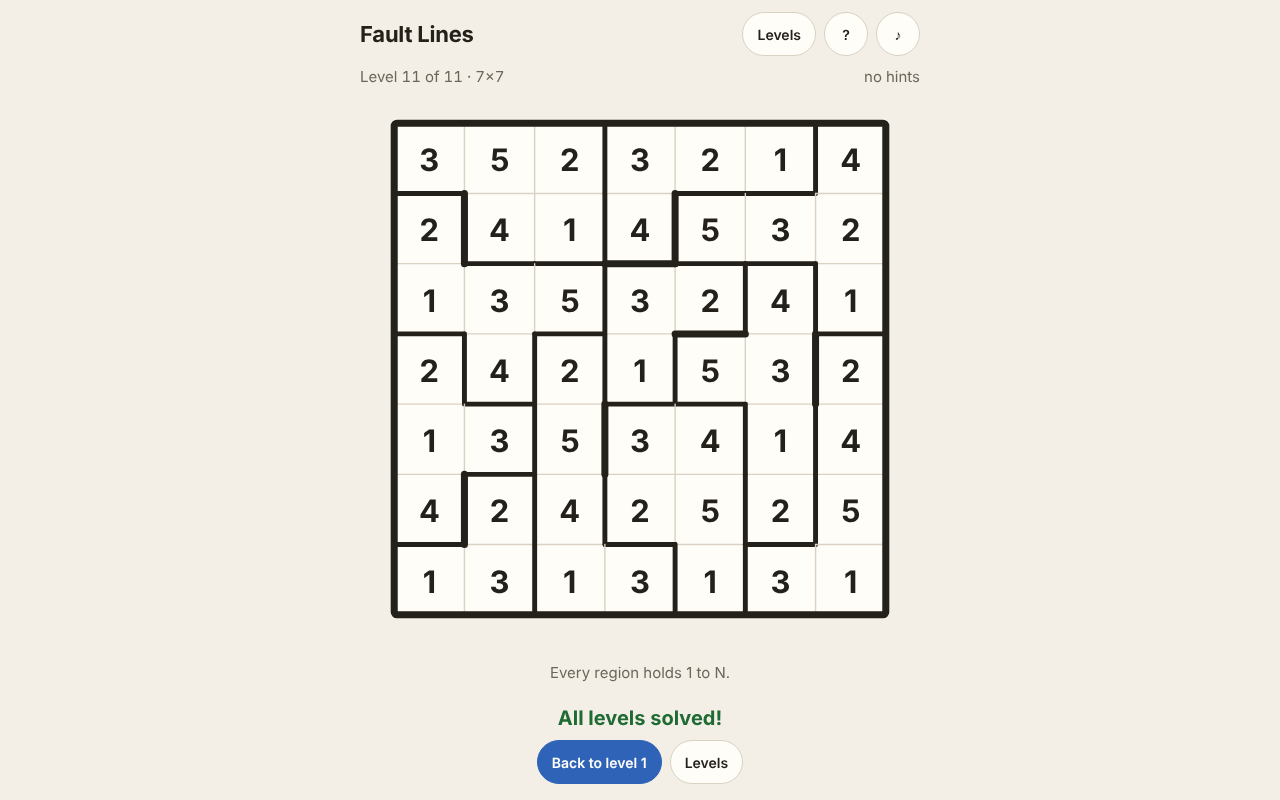
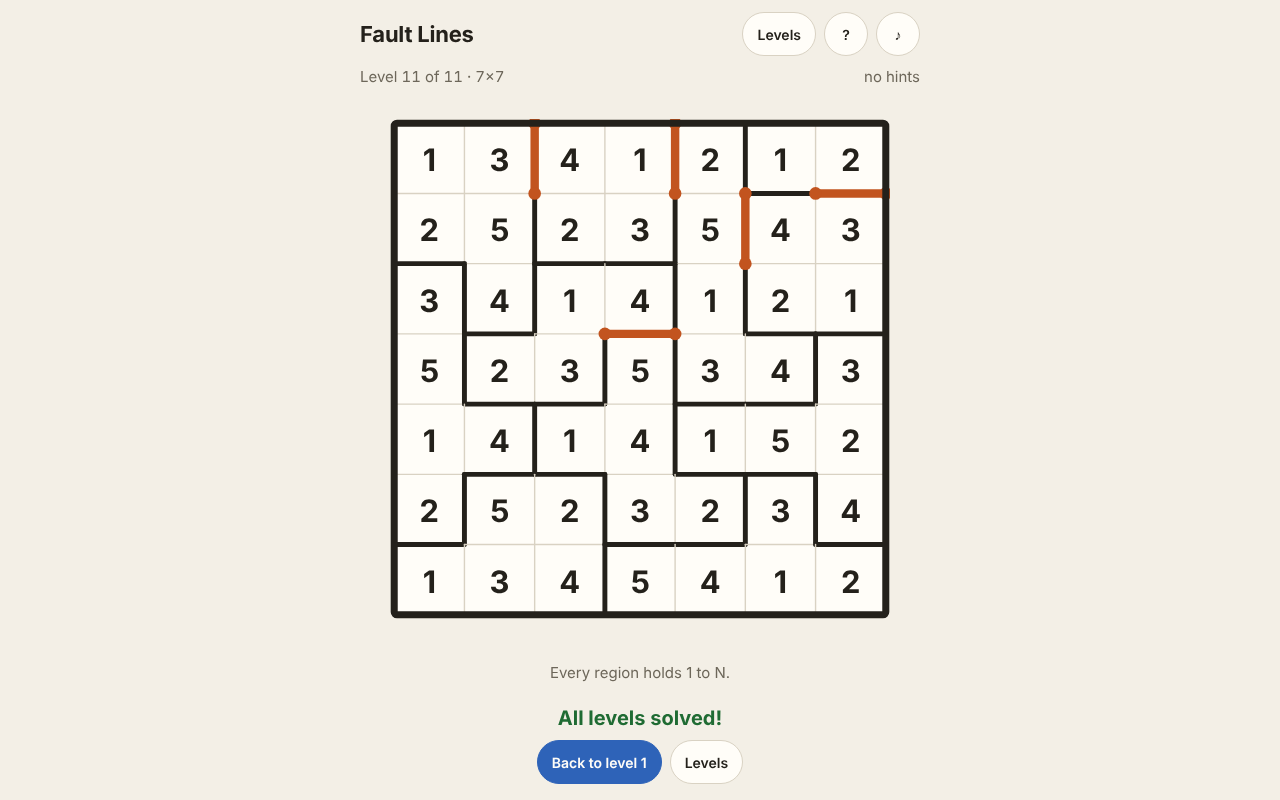
fault-lines: reviewer fixes — fixed walls enforced (a region around a wall is red), every level has a forced first region, true tips, one hint outline per region with clearer copy, orange fixed walls, all-grouped message; QA 45/45
Claude-Session: https://claude.ai/code/session_014Xx1rPcYbGhUYVFdJJ7V6Y

diff --git a/games/fault-lines/index.html b/games/fault-lines/index.html
@@ -8,17 +8,17 @@
   :root {
     --bg: #f3efe6; --panel: #fffdf8; --ink: #24211b; --muted: #6d675a; --line: #d9d2c3;
     --cell: #fffdf8; --reg: #dde6f4; --good: #d3ecd6; --bad: #f5d3cd; --stroke: #ffe39a;
-    --wall: #4a5873; --given: #24211b; --accent: #2e63b8; --goodInk: #1f6b33; --badInk: #a3312a;
+    --wall: #4a5873; --given: #24211b; --fixed: #c2541f; --accent: #2e63b8; --goodInk: #1f6b33; --badInk: #a3312a;
     --font: system-ui, -apple-system, "Segoe UI", sans-serif;
   }
   @media (prefers-color-scheme: dark) {
     :root:not([data-theme="light"]) { --bg: #15161a; --panel: #1f2126; --ink: #ece8de; --muted: #a29d90; --line: #3a3d45;
       --cell: #1f2126; --reg: #283650; --good: #1f4429; --bad: #552624; --stroke: #5b4a17;
-      --wall: #9fb2d6; --given: #ece8de; --accent: #7ea6ec; --goodInk: #7fd493; --badInk: #f09a90; color-scheme: dark; }
+      --wall: #9fb2d6; --given: #ece8de; --fixed: #f08a4b; --accent: #7ea6ec; --goodInk: #7fd493; --badInk: #f09a90; color-scheme: dark; }
   }
   :root[data-theme="dark"] { --bg: #15161a; --panel: #1f2126; --ink: #ece8de; --muted: #a29d90; --line: #3a3d45;
     --cell: #1f2126; --reg: #283650; --good: #1f4429; --bad: #552624; --stroke: #5b4a17;
-    --wall: #9fb2d6; --given: #ece8de; --accent: #7ea6ec; --goodInk: #7fd493; --badInk: #f09a90; color-scheme: dark; }
+    --wall: #9fb2d6; --given: #ece8de; --fixed: #f08a4b; --accent: #7ea6ec; --goodInk: #7fd493; --badInk: #f09a90; color-scheme: dark; }
   * { box-sizing: border-box; }
   html, body { height: 100%; margin: 0; }
   body { background: var(--bg); color: var(--ink); font: 16px/1.4 var(--font); -webkit-tap-highlight-color: transparent;
@@ -89,7 +89,7 @@
   <div class="card"><h2>How to play</h2>
     <p>Every number is already in place; the walls are gone. Group the cells back into regions: a region of <b>N</b> cells holds each number from 1 to N once (so its biggest number is its size, at most 5).</p>
     <p><b>Drag</b> across cells to make a region. Drag from a region to grow it; drag back to take a cell out of the stroke. <b>Tap</b> a free cell to make a one-cell region, tap a cell in a region to free it.</p>
-    <p>Dark lines are fixed walls: the cells on either side are in different regions. A region turns green when it holds 1 to N. Solve the board by making every region green. There is exactly one answer, and it can be found without guessing.</p>
+    <p><b>Orange lines</b> are fixed walls: a region never crosses one. A region turns green when it holds 1 to N. Solve the board by making every region green. There is exactly one answer, and it can be found without guessing.</p>
     <p class="keys">Keyboard: arrows move · Space/Enter pen down/up · Backspace frees a cell · Z undo · R restart · H hint · N next · L levels</p>
     <button class="pill primary" id="closeHelp">Play</button></div>
 </div>
@@ -97,24 +97,24 @@
 // ---------- constants + levels ----------
 // LEVELS-BEGIN
 const LEVELS = [
-  {"w":4,"h":3,"d":"421313424213","walls":[[9,10]],"regions":[[0,1,2,3],[4,5,8,9],[6,7,10,11]]},
-  {"w":4,"h":4,"d":"1343451223451521","walls":[[5,6],[6,10],[6,7]],"regions":[[2,3,7,11,15],[6],[9,10,12,13,14],[0,1,4,5,8]]},
-  {"w":4,"h":4,"d":"1254543112524313","walls":[[10,14],[2,6],[9,10]],"regions":[[2,3,7,11,15],[0,1,5,6,10],[4,8,9,12,13],[14]]},
-  {"w":5,"h":5,"d":"5142123534514124235435123","walls":[[15,16],[22,23]],"regions":[[5,10,11,15,20],[0,1,2,3,6],[4,7,8,9,14],[12,16,17,21,22],[13,18,19,23,24]]},
-  {"w":5,"h":5,"d":"1214253531212453451221343","walls":[[12,13],[2,7],[21,22]],"regions":[[13,14,18,19,24],[3,4,7,8,9],[11,12,17,22,23],[0,5,10,15,16],[1,2,6],[20,21]]},
-  {"w":6,"h":6,"d":"141413252324314153425321134145252323","walls":[[11,17],[30,31],[6,7]],"regions":[[14,15,16,17,22],[4,5,10,11],[13,18,19,20,21],[0,1,6,12],[2,3,7,8,9],[23,28,29,34,35],[24,25,30],[26,27,31,32,33]]},
-  {"w":6,"h":6,"d":"252121134343525151413234354152423241","walls":[[10,16],[26,27],[33,34]],"regions":[[13,14,15,20,26],[21,22,28,34,35],[11,16,17,23,29],[1,2,3,7,8],[0,6,12,18,24],[4,5,9,10],[19,25,30,31,32],[27,33]]},
-  {"w":6,"h":6,"d":"212531343125152543234121512343234121","walls":[[13,19],[15,21],[2,8],[3,9]],"regions":[[18,19,25],[24,30,31,32,33],[0,6,7,12,13],[1,2],[3,4,5,10,16],[8,9,14,15,20],[11,17,22,23,28],[21,26,27],[29,34,35]]},
+  {"w":4,"h":3,"d":"212134341212","walls":[[10,11]],"regions":[[3,6,7,11],[0,4,5,8],[1,2],[9,10]]},
+  {"w":4,"h":4,"d":"5412135352414132","walls":[[10,11],[12,13]],"regions":[[4,5,8,9,12],[0,1,2,3,7],[6,10,13,14,15],[11]]},
+  {"w":4,"h":4,"d":"1234545112343512","walls":[[14,15],[8,12]],"regions":[[5,9,12,13,14],[0,1,2,3,4],[6,7,10,11,15],[8]]},
+  {"w":5,"h":5,"d":"3212114343251211435352142","walls":[[16,17],[4,9]],"regions":[[17,20,21,22,23],[14,19,24],[0,5,10,11,16],[15],[3,4],[8,9,12,13,18],[1,2,6,7]]},
+  {"w":5,"h":5,"d":"2521214343351212434315121","walls":[[15,16],[15,20]],"regions":[[20],[0,5],[6,10,11,12,15],[1,2,3,7,8],[4,9,14],[16,17,21,22,23],[13,18,19,24]]},
+  {"w":6,"h":6,"d":"342121215343342121213535352124214531","walls":[[22,23],[28,29]],"regions":[[11,16,17,23,29],[22,27,28],[13,18,19,20,25],[6,7,12],[26,32,33,34,35],[24,30,31],[4,5],[0,1,2,3,8],[9,10,14,15,21]]},
+  {"w":6,"h":6,"d":"231242145313321424153515241423152314","walls":[[0,6],[1,2],[32,33],[6,12]],"regions":[[0,1,7,8,14],[6],[12,13,18,19,25],[24,30],[20,26,27,31,32],[4,5,10,11],[16,17,22,23,29],[2,3,9,15,21],[28,33,34,35]]},
+  {"w":6,"h":6,"d":"243151312423453151212434345152213241","walls":[[10,11],[13,19],[24,25],[7,13]],"regions":[[5],[11,16,17,23,29],[8,13,14,15,21],[2,3,4,9,10],[0,1,6,7],[12,18,19,24],[20,25,26,27,32],[22,28,33,34,35],[30,31]]},
   {"w":7,"h":7,"d":"2312154454342132121351434542352121314353423214213","walls":[[0,7],[1,2],[19,26],[36,37],[41,48]],"regions":[[0,1,8,9,16],[7,14,15,21],[31,32,37,38,45],[22,28,29,30,35],[36,42,43,44],[33,39,40,41],[46,47,48],[17,18,23,24,25],[13,20,26,27,34],[4,5,6,12,19],[2,3,10,11]]},
-  {"w":7,"h":7,"d":"3232121141534525242131313542245413551325213451434","walls":[[13,20],[22,23],[39,40],[42,43],[6,13],[7,14]],"regions":[[21,28,29,35,42],[8,9,14,15,22],[0,1,7],[36,37,38,39,43],[16,23,24,30,31],[40,44,45,46,47],[2,3,4,10,17],[5,11,12,13,19],[6],[18,25,26,32,33],[20,27,34,41,48]]},
-  {"w":7,"h":7,"d":"3523214241453213532412421532135341442425251313131","walls":[[10,11],[10,17],[18,25],[26,27],[30,31],[35,36],[7,8]],"regions":[[3,4,5,10],[27,34,41,47,48],[31,32,38,39,46],[19,25,26,33,40],[6,11,12,13,20],[17,18,24],[7,14,15,16,22],[0,1,2,8,9],[23,30,37,44,45],[21,28,29,35],[36,42,43]]}
+  {"w":7,"h":7,"d":"4512124123535135121231434341251212334353512124243","walls":[[1,8],[13,20],[29,36],[36,37],[44,45]],"regions":[[0,1,2,3,9],[31,32,38,39,45],[4,5,6,10,11],[12,18,19,20,26],[13],[15,16,17,24,25],[21,22,23,28,29],[7,8,14],[27,33,34],[30,37,44],[35,36,42,43],[40,41,46,47,48]]},
+  {"w":7,"h":7,"d":"1341212252354334141215235343141415225232341345412","walls":[[1,2],[11,12],[17,24],[3,4],[6,13]],"regions":[[5,6],[12,13,19,20],[27,32,33,34,41],[4,11,18,25,26],[24,30,31,38,39],[36,37,42,43,44],[40,45,46,47,48],[14,21,28,29,35],[0,1,7,8,15],[2,3,9,10],[16,17,22,23]]}
 ];
 // LEVELS-END
 const TIPS = [
   "<b>Drag</b> across cells to make a region. A region of 3 cells holds 1, 2 and 3.",
-  "A region's biggest number is its size. A <b>5</b> needs a 4, 3, 2 and 1 next to it.",
-  "<b>Dark lines</b> are fixed walls: the cells on either side are in different regions.",
-  "A 1 with no 2 beside it stands alone: <b>tap</b> it.",
+  "A region's biggest number is its size: a <b>4</b> needs a 1, 2 and 3 joined to it.",
+  "<b>Orange lines</b> are fixed walls: a region never crosses one.",
+  "Stuck? Find a number with only <b>one way</b> to collect what it needs, and start there.",
 ];
 const KEY = "faultLines.v1";
 
@@ -135,9 +135,10 @@ function normalize(L, lab) {
   return out;
 }
 function regionsOf(lab) { const m = new Map(); lab.forEach((v, i) => { if (v >= 0) { if (!m.has(v)) m.set(v, []); m.get(v).push(i); } }); return [...m.values()]; }
+function crossesWall(L, cells) { const c = new Set(cells); return L.walls.some(([a, b]) => c.has(a) && c.has(b)); }
 function status(L, cells) {
   const ds = cells.map((i) => +L.d[i]), set = new Set(ds);
-  if (cells.length > 5 || set.size < ds.length) return "bad";
+  if (cells.length > 5 || set.size < ds.length || crossesWall(L, cells)) return "bad";
   return Math.max(...ds) === cells.length ? "good" : "open";
 }
 function newGame(level, lab) {
@@ -180,7 +181,7 @@ function findHint(g) {
   for (const r of ev.regs) {
     const ks = new Set(r.cells.map((i) => ansOf[i]));
     const exact = ks.size === 1 && answer[[...ks][0]].length === r.cells.length;
-    if (ks.size > 1 || (r.st === "good" && !exact)) return { kind: "wrong", cells: r.cells };
+    if (ks.size > 1 || (r.st === "good" && !exact)) return { kind: "wrong", why: ks.size > 1 ? "mix" : "part", cells: r.cells };
   }
   for (const c of answer) {
     const id = g.lab[c[0]];
@@ -257,13 +258,30 @@ function render() {
   for (const [a, b] of L.walls) {
     const i = Math.min(a, b), q = Math.max(a, b), [x, y] = cellXY(L, i), horiz = q === i + 1;
     const line = horiz ? { x1: x + S, y1: y, x2: x + S, y2: y + S } : { x1: x, y1: y + S, x2: x + S, y2: y + S };
-    kids.push(el("line", { ...line, stroke: "var(--given)", "stroke-width": 10, "stroke-linecap": "round" }));
+    kids.push(el("line", { ...line, stroke: "var(--fixed)", "stroke-width": 12, "stroke-linecap": "round" }));
+    kids.push(el("circle", { cx: line.x1, cy: line.y1, r: 9, fill: "var(--fixed)" }), el("circle", { cx: line.x2, cy: line.y2, r: 9, fill: "var(--fixed)" }));
   }
   kids.push(el("rect", { x: PAD, y: PAD, width: L.w * S, height: L.h * S, fill: "none", stroke: "var(--given)", "stroke-width": 10, rx: 4 }));
   // hint outline
-  if (g.hint) for (const c of g.hint.cells) {
-    const [x, y] = cellXY(L, c);
-    kids.push(el("rect", { x: x + 9, y: y + 9, width: S - 18, height: S - 18, rx: 12, fill: "none", stroke: g.hint.kind === "wrong" ? "var(--badInk)" : "var(--accent)", "stroke-width": 6, "stroke-dasharray": "14 9" }));
+  if (g.hint) {
+    const hs = new Set(g.hint.cells), col = g.hint.kind === "wrong" ? "var(--badInk)" : "var(--accent)", m = 12;
+    for (const c of g.hint.cells) {
+      const [x, y] = cellXY(L, c), cx = c % L.w, cy = (c / L.w) | 0;
+      kids.push(el("rect", { x, y, width: S, height: S, fill: col, opacity: 0.12 }));
+      const side = (q, ok) => !ok || !hs.has(q);
+      const segs = [];
+      if (side(c - L.w, cy > 0)) segs.push([x + m, y + m, x + S - m, y + m, "t"]);
+      if (side(c + L.w, cy < L.h - 1)) segs.push([x + m, y + S - m, x + S - m, y + S - m, "b"]);
+      if (side(c - 1, cx > 0)) segs.push([x + m, y + m, x + m, y + S - m, "l"]);
+      if (side(c + 1, cx < L.w - 1)) segs.push([x + S - m, y + m, x + S - m, y + S - m, "r"]);
+      for (const [x1, y1, x2, y2, k] of segs) {
+        // stretch the line into the neighbouring hinted cell so the outline is continuous
+        let a = [x1, y1], b = [x2, y2];
+        if (k === "t" || k === "b") { if (cx > 0 && hs.has(c - 1) && !hs.has(c - 1 + (k === "t" ? -L.w : L.w))) a = [x, y1]; if (cx < L.w - 1 && hs.has(c + 1) && !hs.has(c + 1 + (k === "t" ? -L.w : L.w))) b = [x + S, y2]; }
+        else { if (cy > 0 && hs.has(c - L.w) && !hs.has(c - L.w + (k === "l" ? -1 : 1))) a = [x1, y]; if (cy < L.h - 1 && hs.has(c + L.w) && !hs.has(c + L.w + (k === "l" ? -1 : 1))) b = [x2, y + S]; }
+        kids.push(el("line", { x1: a[0], y1: a[1], x2: b[0], y2: b[1], stroke: col, "stroke-width": 6, "stroke-dasharray": "14 9", "stroke-linecap": "round" }));
+      }
+    }
   }
   // stroke path
   if (stroke && stroke.cells.length > 1) {
@@ -292,11 +310,16 @@ function tipText(g, ev) {
   if (stroke && stroke.cells.length) {
     const cells = stroke.base != null ? [...new Set([...regionsOf(g.lab).find((r) => r.includes(stroke.first)) || [], ...stroke.cells])] : stroke.cells;
     const ds = cells.map((i) => +g.L.d[i]).sort((a, b) => a - b), st = status(g.L, cells);
-    const word = st === "good" ? `<span class="ok">✓ holds 1 to ${cells.length}</span>` : st === "bad" ? `<span class="no">${cells.length > 5 ? "more than 5 cells" : "a number repeats"}</span>` : `needs ${Math.max(...ds)} cells`;
+    const word = st === "good" ? `<span class="ok">✓ holds 1 to ${cells.length}</span>` : st === "bad" ? `<span class="no">${cells.length > 5 ? "more than 5 cells" : crossesWall(g.L, cells) ? "a fixed wall runs through it" : "a number repeats"}</span>` : `needs ${Math.max(...ds)} cells`;
     return `${cells.length} cell${cells.length > 1 ? "s" : ""}: ${ds.join(" ")} · ${word}`;
   }
-  if (g.hint) return g.hint.kind === "wrong" ? "The <b>dashed</b> region can't be right: its cells belong to different regions." : `The <b>dashed</b> ${g.hint.cells.length} cell${g.hint.cells.length > 1 ? "s" : ""} make one region.`;
-  if (ev.bad) return `<span class="no">Red</span> regions repeat a number or have more than 5 cells.`;
+  if (g.hint) {
+    if (g.hint.kind === "next") return `The <b>dashed</b> ${g.hint.cells.length} cell${g.hint.cells.length > 1 ? "s" : ""} make one region.`;
+    return g.hint.why === "part" ? (g.hint.cells.length === 1 ? "The <b>dashed</b> cell belongs in a bigger region." : "The <b>dashed</b> region is part of a bigger region.")
+      : "The <b>dashed</b> region can't be right: it mixes cells from different regions.";
+  }
+  if (ev.bad) return `<span class="no">Red</span> regions repeat a number, cross a fixed wall or have more than 5 cells.`;
+  if (!ev.free) return "Every cell is grouped, but some regions are wrong. <b>Hint</b> shows one.";
   if (g.level < TIPS.length && !ev.regs.length) return TIPS[g.level];
   return "Group every cell into a region that holds 1 to N.";
 }

diff --git a/games/fault-lines/BRIEF.md b/games/fault-lines/BRIEF.md
@@ -30,7 +30,7 @@ in one night. Sum Trail needs heavy arithmetic per move; Hitori Rooms is close t
 1. Core: every cell numbered, drag across cells to group them into a region, live feedback (a region that holds
    exactly 1..N turns green, a region with a repeated number or more than 5 cells turns red), win when every cell
    is in a green region.
-2. 10 generated levels, 4×4 to 7×7, each with exactly one answer, solvable by deduction without guessing (proven by
+2. 11 generated levels, 4×3 to 7×7, each with exactly one answer, solvable by deduction without guessing (proven by
    `lab/gen.mjs`). Some levels show a few fixed walls where they are needed to make the answer unique.
 3. Drag on touch/mouse (drag from a region to grow it, back over a cell to take it back, tap to free a cell);
    keyboard cursor + pen.
@@ -40,7 +40,7 @@ in one night. Sum Trail needs heavy arithmetic per move; Hitori Rooms is close t
 - Max region size 5 (numbers 1–5), as in most Suguru books.
 - The original Suguru's "equal numbers never touch" rule holds in every grid (the generator makes real Suguru
   solutions), but the player never has to check it: it's not a clue here, only the region rule is.
-- Fixed walls ("given" walls) are allowed as clues where the numbers alone allow two answers; the generator keeps
+- Fixed walls ("given" walls, orange) are allowed as clues where the numbers alone allow two answers; the generator keeps
   as few as it can.
 - No par or move count; the win card shows hints used. All levels open from the start.
 
@@ -50,9 +50,10 @@ in one night. Sum Trail needs heavy arithmetic per move; Hitori Rooms is close t
 
 ## Design
 ### Core loop
-Scan for a forced shape (a 1 with no 2 next to it is a region of its own; a 2 whose only neighbouring 1 is shared
-with nothing else; a 5 that needs a 4, 3, 2 and 1 within reach), drag those cells together, watch it turn green,
-which leaves fewer free cells for the rest.
+Scan for a forced shape (a number with only one way to collect the 1..N it needs, a 5 that needs a 4, 3, 2 and
+1 within reach, a cell that only one shape can still cover), drag those cells together, watch it turn green, which
+leaves fewer free cells for the rest. (Equal numbers never touch in a Suguru, so a "lone 1" only happens behind
+fixed walls.)
 
 ### The twist
 The numbers are the whole clue. A region's size is the largest number in it, so every number is a promise about
@@ -71,12 +72,13 @@ the size of the region it belongs to, and every free cell must end up in some gr
 cells whose numbers are exactly 1..size) to check that the regions are the only answer, adding a fixed wall where a
 second answer exists and removing every fixed wall that isn't needed. A level is kept only if a "human" solver
 finishes it using two kinds of step: *only one shape fits this cell*, and *this shape would leave a cell with no
-shape*. Order: 1–2 4×4 (tutorial: lone 1s, a 2, a 3), 3–4 5×5, 5–7 6×6, 8–10 7×7, rising in steps needed.
-Tips on the first levels: "drag across cells to make a region", "a region of 3 holds 1, 2 and 3", "a 1 with no 2
-beside it stands alone".
+shape*, and only if the very first step is of the first kind (there is always a forced first region). Order: 1 4×3, 2–3 4×4, 4–5 5×5, 6–8 6×6, 9–11 7×7, rising in look-ahead steps needed (0–7), 1–5 fixed walls.
+Tips on the first levels: "drag across cells to make a region", "a region's biggest number is its size", "orange
+lines are fixed walls", "find a number with only one way to collect what it needs".
 
 ### Win / lose / restart
-Win when every cell is in a green region (with the fixed walls respected, that is the unique answer). Card: hints
+Win when every cell is in a green region. A region with a fixed wall inside it (drawn around the wall's end) is red,
+so the win is always the unique answer. Card: hints
 used, Next. No lose state; Undo is unlimited, Restart is instant and undoable.
 
 ### Feel
